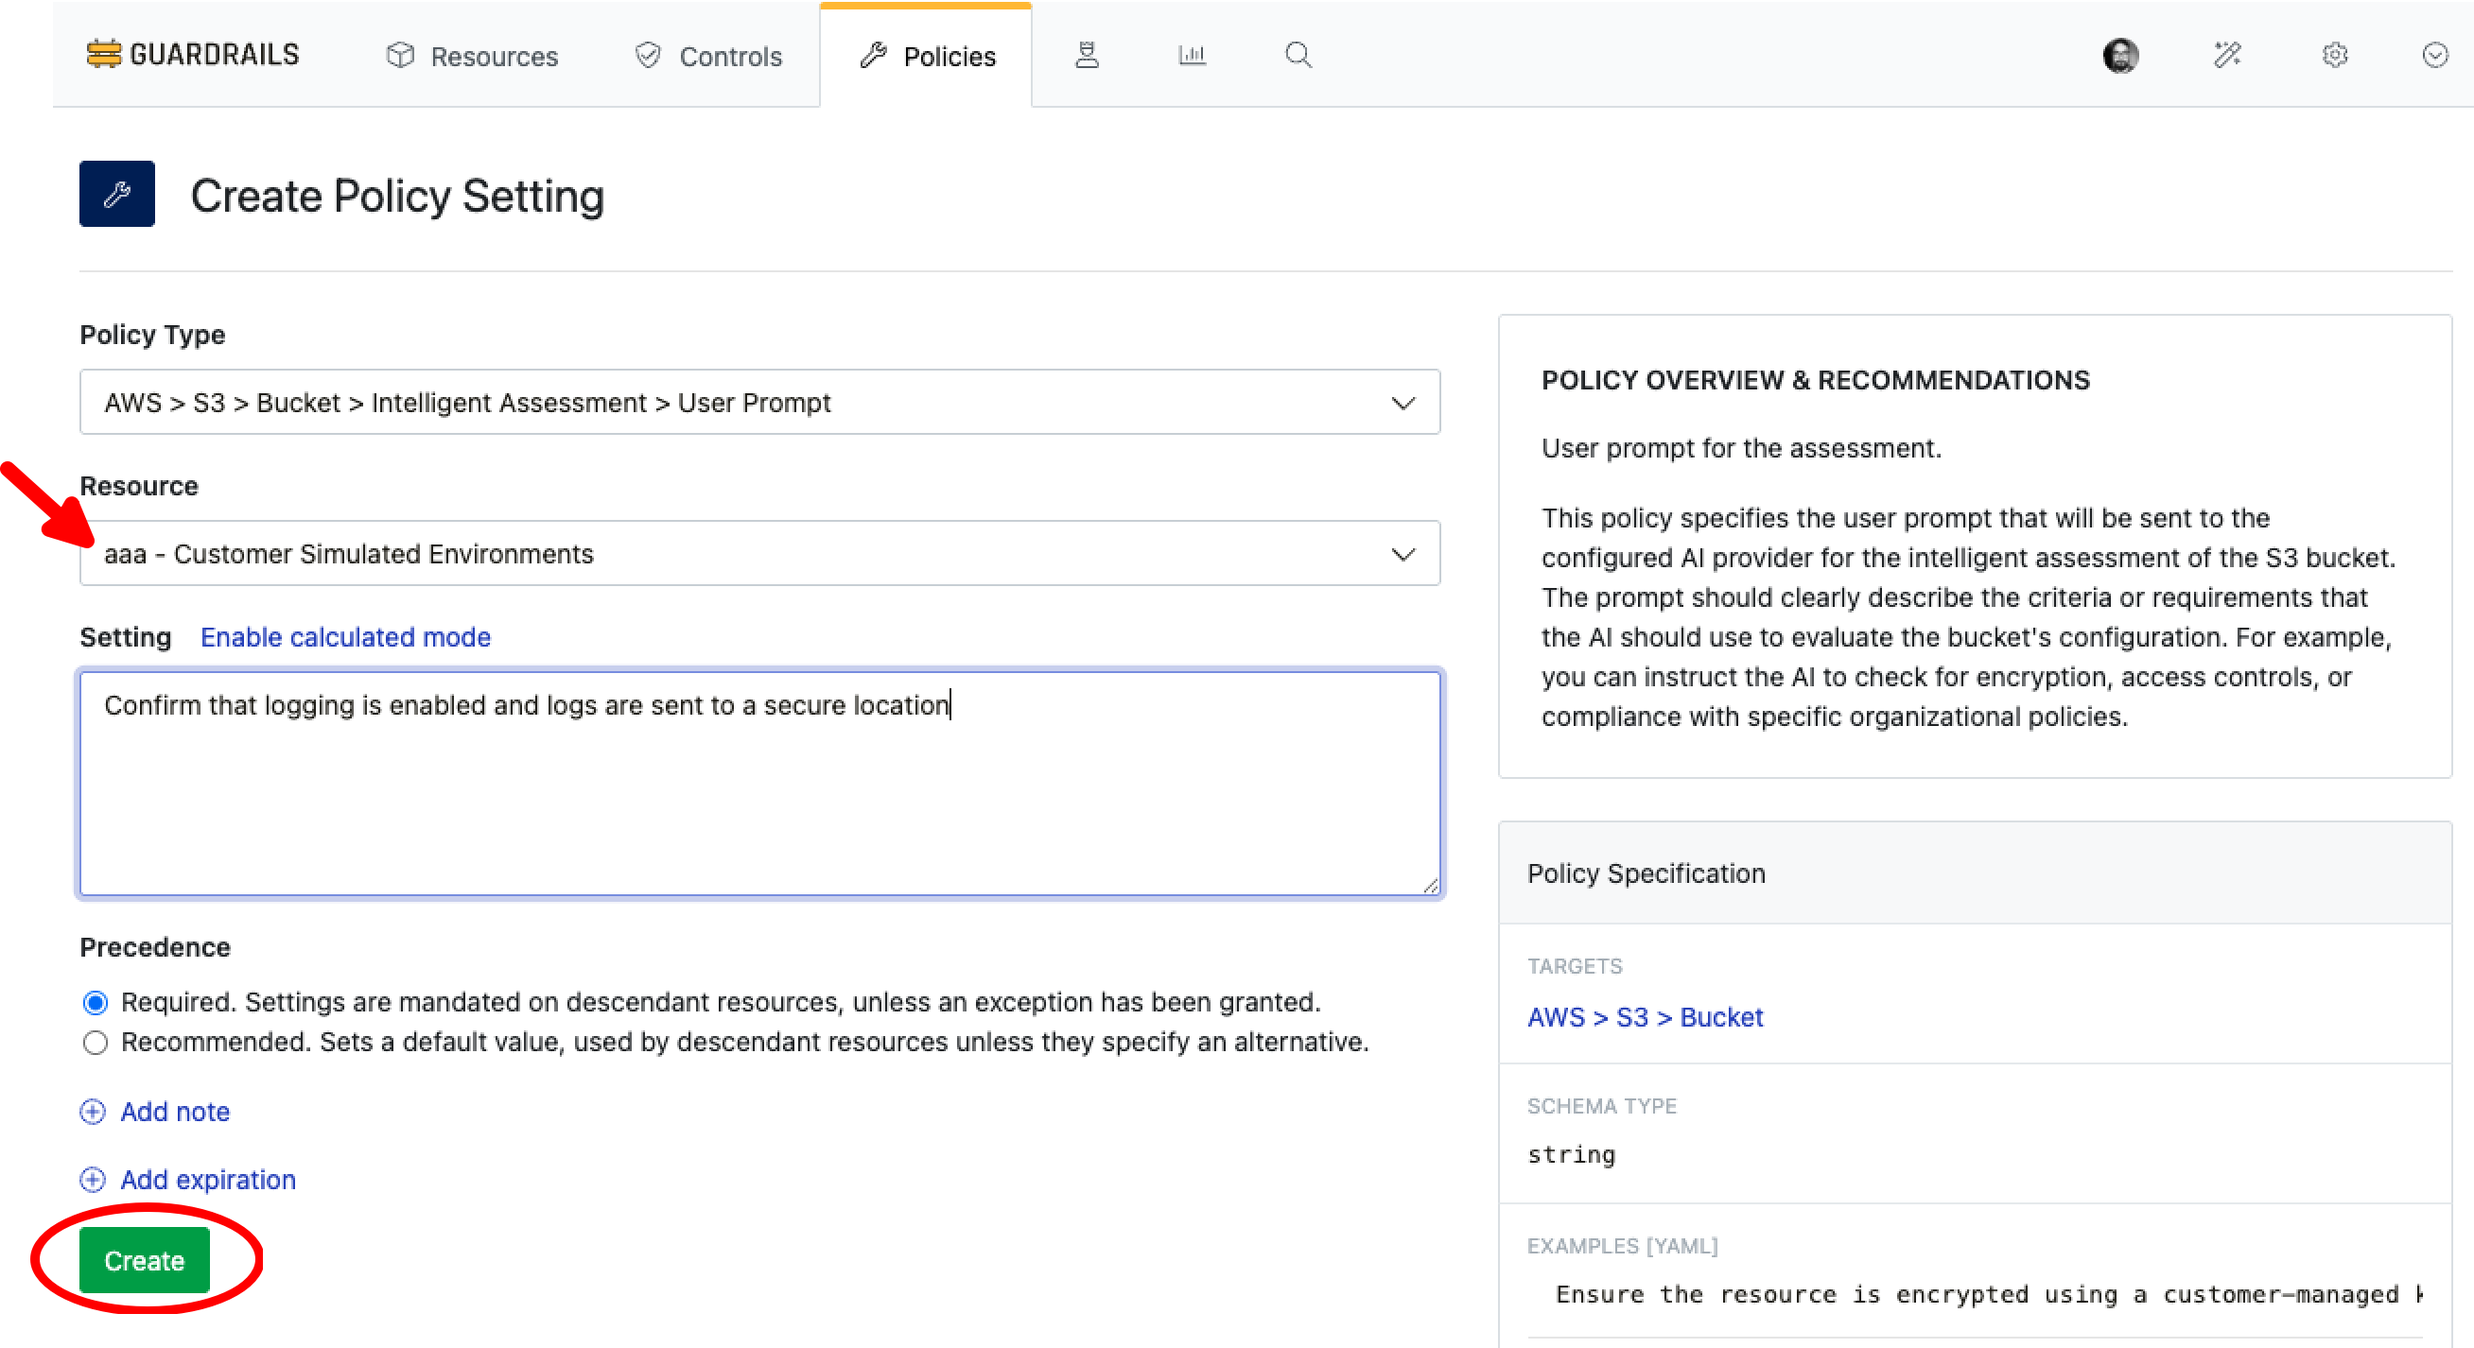
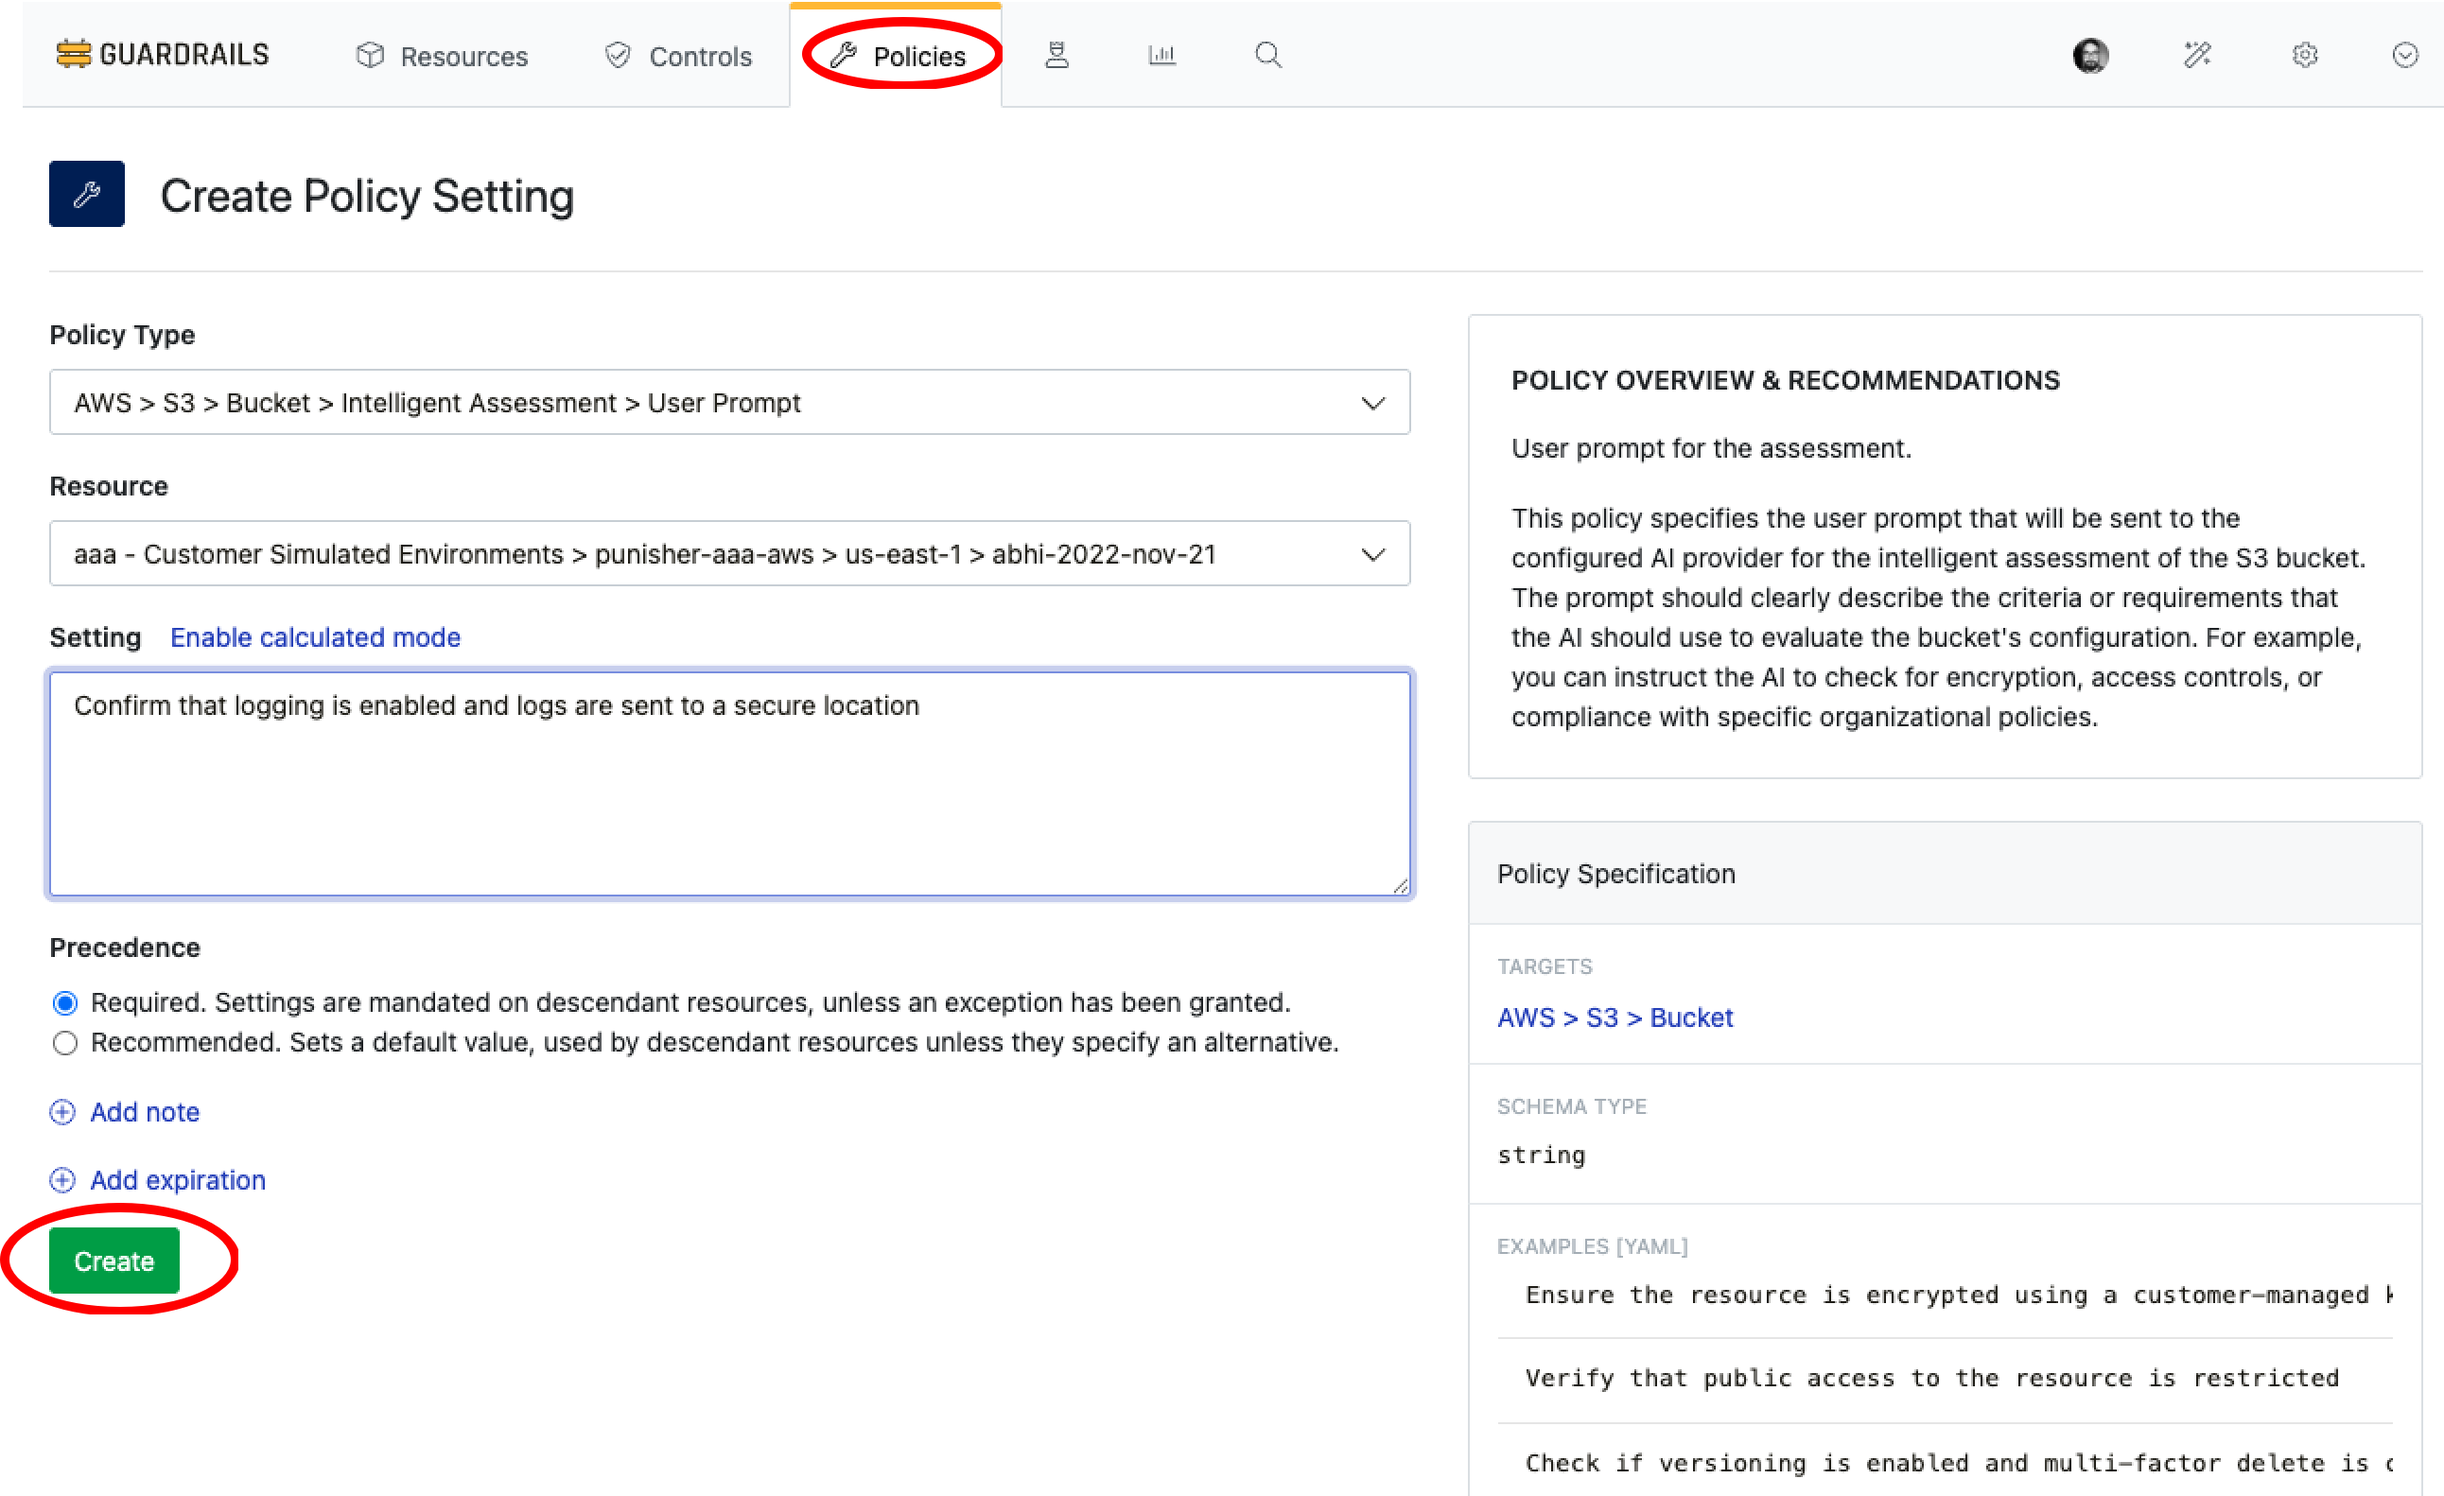
Update & tidy up Enable Intelligent Assessment

diff --git a/docs/guides/using-guardrails/ai/enable-intelligent-assessment/index.md b/docs/guides/using-guardrails/ai/enable-intelligent-assessment/index.md
@@ -1,22 +1,22 @@
 ---
-title: Enable Intelligent Assessment Control
-sidebar_label: Enable Intelligent Assessment Control
+title: Enable Intelligent Assessment
+sidebar_label: Enable Intelligent Assessment
 ---
 
-# Enabling Intelligent Assessment Control
+# Enable Intelligent Assessment
 
 In this guide, you will learn how to:
 
-- Set up custom user prompts and context for resource evaluation
-- Implement intelligent assessment for S3 bucket controls as an example
+- Set up custom user prompts and context for resource evaluation.
+- Implement Intelligent Assessment for a specific S3 bucket as an example.
 
-With the new [Intelligent Assessment](/guardrails/docs/concepts/guardrails/intelligent-assessment) guardrail [control](/guardrails/docs/reference/glossary#control), Turbot Guardrails now provides an AI-powered approach to defining guardrails using natural language prompts. This allows you to define governance policies by simply describing what you want to check, opening up new possibilities for governance scenarios that benefit from freeform, custom logic.
+With the [Intelligent Assessment](/guardrails/docs/concepts/guardrails/intelligent-assessment) [control](/guardrails/docs/reference/glossary#control), it introduces an AI-powered way to define and evaluate governance policies in Turbot Guardrails. Instead of crafting complex calculated policies, you can describe the check you want — in plain natural language — and let Guardrails interpret and check it.
 
 ## Prerequisites
 
 - *Turbot/Admin* permissions at the Turbot resource level.
 - Familiarity with the [Guardrails console](https://turbot.com/guardrails/docs/getting-started/).
-- Ensure the [Turbot > AI > Configuration](/guardrails/docs/guides/using-guardrails/ai/ai-configuration) is established.
+- Ensure that [Turbot > AI > Configuration](/guardrails/docs/guides/using-guardrails/ai/ai-configuration) is set up.
 
 ## Step 1: Enable Intelligent Assessment Control
 
@@ -32,16 +32,32 @@ For this guide, the `Turbot > AI > Control > Intelligent Assessment > Enabled` p
 
 ![Enable Intelligent Assessment Control](./turbot-ai-intelligent-assessment-enabled.png)
 
+## Step 2: Find Targeted S3 Bucket
 
-## Step 2: Add User Prompt
+Navigate to **Resources** tab and search for the S3 bucket you want to assess. You can filter by:
 
-First, locate the policy in the policy tree by navigating to **Policies** tab, search `AWS > S3 > Bucket > Intelligent Assessment > User Prompt` policy and select **New Policy Setting**.
+- Resource type: `AWS > S3 > Bucket`
+- Bucket name in serach bar
+
+![Find S3 Bucket](./locate-aws-s3-bucket.png)
+
+Select the bucket to view its details and controls. This will be the target resource for setting up `Intelligent Assessment`.
+
+> [!TIP]
+> You can also find the required bucket using **Reports** > **AWS S3 Buckets**
+
+## Step 3: Add User Prompt
+
+While in` AWS > S3 > Bucket`, select **Policies** tab and choose `AWS > S3 > Bucket > Intelligent Assessment > User Prompt` policy.
+
+Select **New Policy Setting** to add
 
 ![Locate User Prompt Policy](./locate-user-prompt-policy.png)
 
-Here you can define the prompt that will be sent to the AI provider for assessing the required cloud provider resources. The prompt should clearly outline what the AI should evaluate.
+Here you can define the prompt that will be sent to the AI provider for resource assessment. Ensure your instructions are clear and specific.
 
-![Set the User Prompt for Assessment](./set-user-prompt-value.png)
+
+![Set the User Prompt Value for Assessment](./set-user-prompt-value.png)
 
 > [!NOTE]
 > You can set this policy at the resource, account, or folder level.
@@ -52,21 +68,26 @@ Here you can define the prompt that will be sent to the AI provider for assessin
 - Confirm that logging is enabled and logs are sent to a secure location.
 - Check if versioning is enabled and multi-factor delete is configured when the bucket has a tag "Environment":"Non-Compliant Tag". If it doesn't have the tag, only check if versioning is enabled.
 ```
+## Step 4: Set up Context
 
-## Step 3: Set Primary Policy to Check Mode
+The sub-policy `AWS > S3 > Bucket > Intelligent Assessment > Context` defines the context information in JSON format that will be provided to the configured AI provider for the intelligent assessment of the S3 bucket.
 
-As the user prompt is set now, let's try to set up one S3 bucket policy to use the user prompt.
+By default, the context includes the resource's attributes and metadata required for accurate evaluation. We will use the *default context* in this example.
 
-To access the control:
+![Intelligent Assessment Context](./aws-s3-bucket-ia-context.png)
 
-1. Navigate to `AWS > S3 > Bucket > Intelligent Assessment` from **Controls** tab
-2. Select any bucket you would like to evaluate
+> [!NOTE]
+> You may customize this context to include additional information relevant to your assessment needs.
 
-In the **Policies** tab, if not set earlier, you may find `Intelligent Assessment` is set to `Skip`
+## Step 5: Set Primary Policy to Check Mode
+
+Now that the user prompt is set with the default context, let's set up the primary policy `AWS > S3 > Bucket > Intelligent Assessment` for this S3 bucket.
+
+To access the main policy, while in the `AWS > S3 > Bucket > Intelligent Assessment` **Controls** , selet the **Policies** tab, if not set earlier, you may find `Intelligent Assessment` is set to `Skip`
 
 ![Create Settings](./aws-s3-bucket-create-setting.png)
 
-Select **CREATE SETTING** and choose `Check: User prompt`. This policy activates intelligent assessments for the S3 bucket based on your user prompt and context.
+Select **CREATE SETTING** and set the option to `Check: User prompt`. This policy activates intelligent assessments for the S3 bucket based on your user prompt and context.
 
 > [!NOTE]
 > You can set this policy at the resource, account, or folder level.
@@ -74,7 +95,7 @@ Select **CREATE SETTING** and choose `Check: User prompt`. This policy activates
 
 ![Set the Intelligent Assessment Policy for S3 Bucket](./aws-s3-intelligent-assessment-check-mode.png)
 
-## Step 4: Check Control Status
+## Step 6: Check Control Status
 
 The control will assess the S3 bucket using configured user prompt and evaluate the control.
 

diff --git a/docs/guides/using-guardrails/ai/enable-policy-pack-summary/index.md b/docs/guides/using-guardrails/ai/enable-policy-pack-summary/index.md
@@ -1,6 +1,6 @@
 ---
-title: Policy Pack Summary
-sidebar_label: Policy Pack Summary
+title: Enable Policy Pack Summary
+sidebar_label: Enable Policy Pack Summary
 ---
 
 # Policy Pack Summary
@@ -23,7 +23,7 @@ AI-Powered `Policy Pack Summary` helps in providing contextual insights by analy
 
 - *Turbot/Admin* permissions at the Turbot resource level.
 - Familiarity with the [Guardrails console](https://turbot.com/guardrails/docs/getting-started/).
-- Ensure the [Turbot > AI > Configuration](/guardrails/docs/guides/using-guardrails/ai/ai-configuration) is established.
+- Ensure that [Turbot > AI > Configuration](/guardrails/docs/guides/using-guardrails/ai/ai-configuration) is set up.
 
 ## Step 1: Enable Policy Pack Summary
 

diff --git a/docs/guides/using-guardrails/ai/enable-intelligent-fixes/index.md b/docs/guides/using-guardrails/ai/enable-intelligent-fixes/index.md
@@ -3,7 +3,7 @@ title: Enable Intelligent Fixes
 sidebar_label: Enable Intelligent Fixes
 ---
 
-# Enabling Intelligent Fixes
+# Enable Intelligent Fixes
 
 In this guide, you will learn how to:
 
@@ -23,8 +23,7 @@ When a resource is found to be non-compliant, Intelligent Fixes analyzes:
 
 - *Turbot/Admin* permissions at the Turbot resource level.
 - Familiarity with the [Guardrails console](https://turbot.com/guardrails/docs/getting-started/).
-- Ensure the [Turbot > AI > Configuration](/guardrails/docs/guides/using-guardrails/ai/ai-configuration) is established.
-
+- Ensure that [Turbot > AI > Configuration](/guardrails/docs/guides/using-guardrails/ai/ai-configuration) is set up.
 
 ## Step 1: Enable Intelligent Fixes
 
